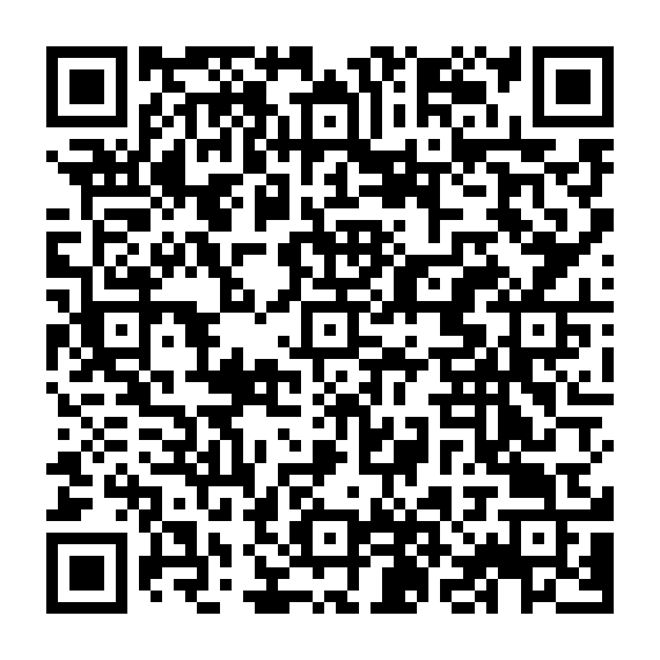
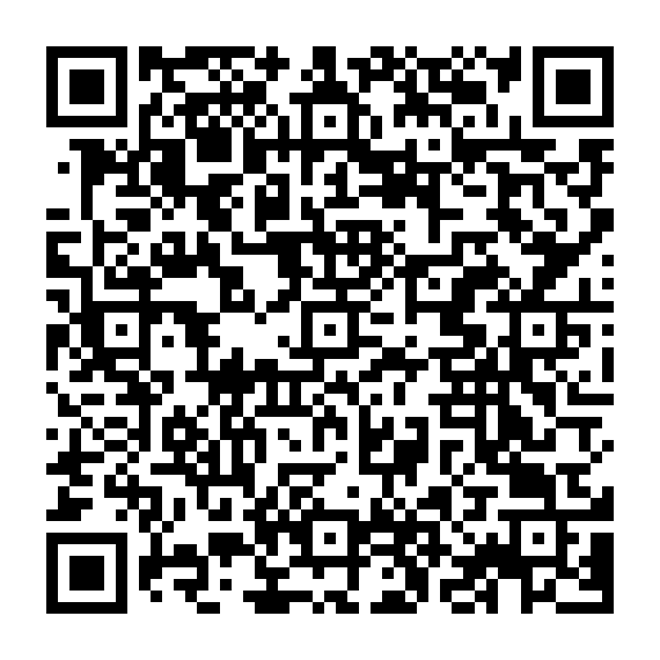
chore: 发布 v1.3.0 并更新二维码与下载说明

diff --git a/README.md b/README.md
@@ -15,7 +15,7 @@
   <img src="docs/download_qr.png" width="240" alt="扫码下载 Android 安装包" />
 </p>
 
-<p align="center">手机扫码即可下载安装包（v1.2.0，约 48.4 MB）</p>
+<p align="center">手机扫码即可下载安装包（v1.3.0，约 48.7 MB）</p>
 
 也可以直接打开 [Releases 页面](https://github.com/handsome-lyl/eNoteBook/releases/latest) 下载 APK。
 
